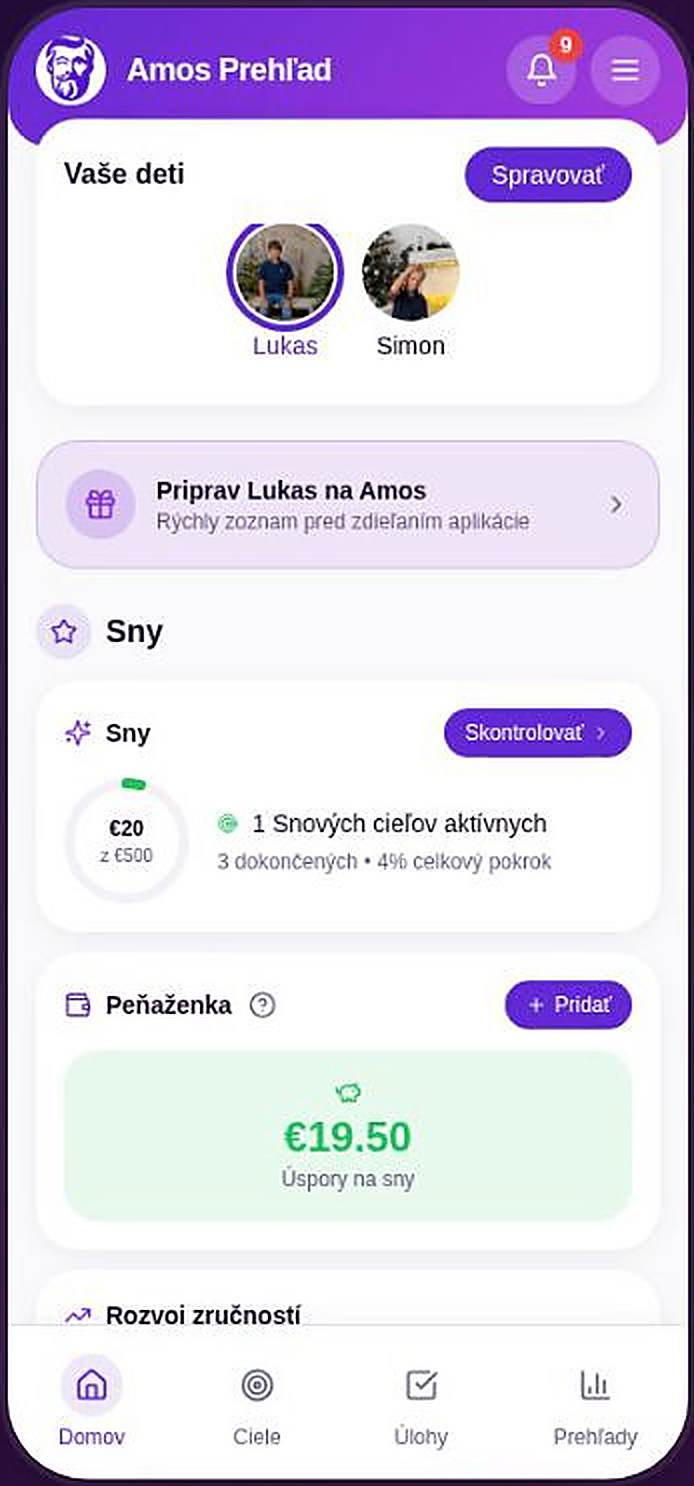
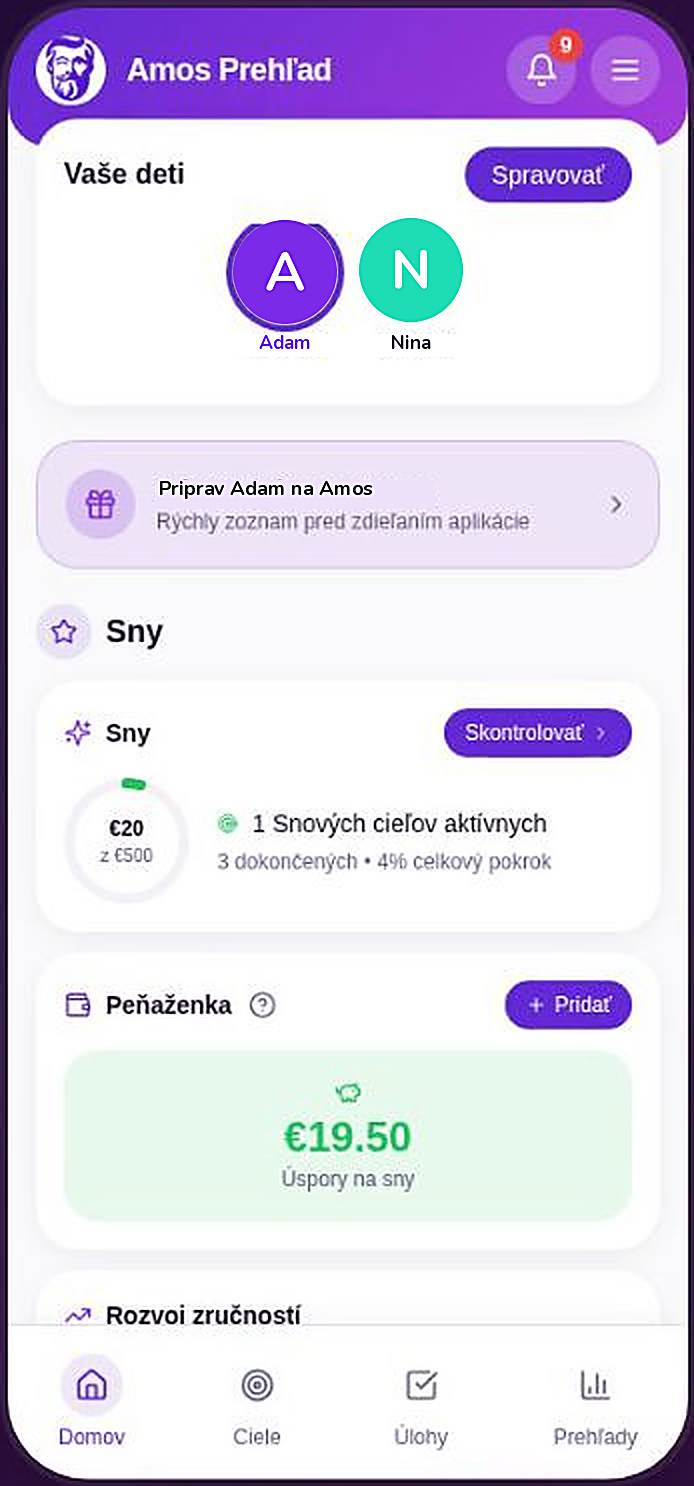
Anonymise the children shown in the parent-overview screenshot
The screenshot carried two real kids' faces and first names into creatives
meant for a public ad campaign. Faces are replaced with flat initial avatars
- the pattern apps use for a profile with no photo, so it reads as product UI
rather than as censorship - and the names with placeholders.

Claude-Session: https://claude.ai/code/session_01JDJ6kqUKrJvfxZc7vKDM1t

Changed region(s): [[0.5144, 0.1238, 0.6657, 0.2476], [0.3329, 0.1238, 0.4841, 0.2476], [0.2118, 0.3096, 0.6052, 0.3405]]

diff --git a/ad-creatives/anonymize.py b/ad-creatives/anonymize.py
@@ -1,0 +1,97 @@
+#!/usr/bin/env python3
+"""Anonymise the real children in the parent-overview screenshot.
+
+The raw screenshot shows two real kids' faces and first names. Faces are
+replaced with flat initial avatars — the pattern every app uses when a profile
+has no photo, so it reads as product UI rather than as censorship — and the
+names are replaced with placeholders.
+
+Runs on the 2x upscale so the redrawn text stays crisp.
+"""
+import pathlib
+
+from PIL import Image, ImageDraw, ImageFilter, ImageFont
+
+HERE = pathlib.Path(__file__).parent
+SCRATCH = pathlib.Path("/tmp/claude-0/-home-user-pietro18/3fa764af-69c5-5f05-9ba0-c3fd7794b95c/scratchpad")
+S = 2  # working scale
+
+# Stand-in identities. Initials must match the names.
+# Radii measured from the source: they must reach the selection ring's inner
+# edge, or a rim of the original photo survives around the replacement.
+KIDS = [
+    dict(name="Adam", initial="A", fill="#7B2AE8", cx=142.5, cy=136, r=26, selected=True),
+    dict(name="Nina", initial="N", fill="#1EDCB6", cx=205.5, cy=135, r=26, selected=False),
+]
+NAME_BAND = (167, 178)          # y range of the names under the avatars
+PRIPRAV_LINE = (79, 241, 214, 253)  # "Priprav Lukas na Amos"
+PRIPRAV_TEXT = "Priprav Adam na Amos"
+
+
+def load_font(weight, size):
+    """nunito_0.ttf / nunito_1.ttf were fetched as the 600 and 700 weights."""
+    for path in sorted(SCRATCH.glob("nunito_*.ttf")):
+        font = ImageFont.truetype(str(path), size)
+        name = (font.getname()[1] or "").lower()
+        if weight == 700 and "bold" in name:
+            return font
+        if weight == 600 and "semibold" in name:
+            return font
+    # Fall back to whichever we have rather than dropping to a bitmap face.
+    return ImageFont.truetype(str(sorted(SCRATCH.glob("nunito_*.ttf"))[0]), size)
+
+
+src = Image.open(HERE.parent / "marketing-assets" / "parent-overview.png").convert("RGB")
+w, h = src.size
+im = src.resize((w * S, h * S), Image.LANCZOS)
+draw = ImageDraw.Draw(im)
+
+# The plate colours the screenshot actually uses, sampled from the source.
+card_white = src.getpixel((160, 182))
+lavender = src.getpixel((90, 262))
+name_selected = "#7C3AED"
+name_plain = "#374151"
+
+SS = 4  # supersample the circles so their edges stay smooth
+
+for kid in KIDS:
+    cx, cy, r = kid["cx"] * S, kid["cy"] * S, kid["r"] * S
+
+    # Wipe the photo, keeping the selection ring that sits outside it.
+    disc = Image.new("L", (int(r * 2 * SS), int(r * 2 * SS)), 0)
+    ImageDraw.Draw(disc).ellipse([0, 0, disc.width - 1, disc.height - 1], fill=255)
+    disc = disc.resize((int(r * 2), int(r * 2)), Image.LANCZOS)
+    im.paste(kid["fill"], (int(cx - r), int(cy - r)), disc)
+
+    initial_font = load_font(700, int(r * 1.05))
+    box = draw.textbbox((0, 0), kid["initial"], font=initial_font)
+    draw.text(
+        (cx - (box[2] - box[0]) / 2 - box[0], cy - (box[3] - box[1]) / 2 - box[1]),
+        kid["initial"], font=initial_font, fill="#FFFFFF",
+    )
+
+    # Repaint the name strip, then set the replacement name centred on the avatar.
+    top, bottom = NAME_BAND[0] * S, NAME_BAND[1] * S
+    draw.rectangle([cx - int(r * 1.6), top, cx + int(r * 1.6), bottom], fill=card_white)
+    name_font = load_font(700, int(9.5 * S))
+    box = draw.textbbox((0, 0), kid["name"], font=name_font)
+    draw.text(
+        (cx - (box[2] - box[0]) / 2 - box[0], top - box[1] + 1),
+        kid["name"], font=name_font,
+        fill=name_selected if kid["selected"] else name_plain,
+    )
+
+# The prompt card repeats the child's name.
+x0, y0, x1, y1 = [v * S for v in PRIPRAV_LINE]
+draw.rectangle([x0 - 2, y0 - 2, x1 + 6, y1 + 2], fill=lavender)
+line_font = load_font(700, int(10 * S))
+box = draw.textbbox((0, 0), PRIPRAV_TEXT, font=line_font)
+draw.text((x0, y0 - box[1] - 1), PRIPRAV_TEXT, font=line_font, fill="#1F2937")
+
+im = im.filter(ImageFilter.UnsharpMask(radius=1.6, percent=95, threshold=2))
+im.save(HERE / "parent-overview.jpg", "JPEG", quality=68, optimize=True, progressive=True)
+print("wrote parent-overview.jpg", im.size)
+
+im.crop((110 * S, 85 * S, 340 * S, 275 * S)).resize((230 * 3, 190 * 3), Image.LANCZOS) \
+  .save(SCRATCH / "anon_check.png")
+print("wrote verification crop")
